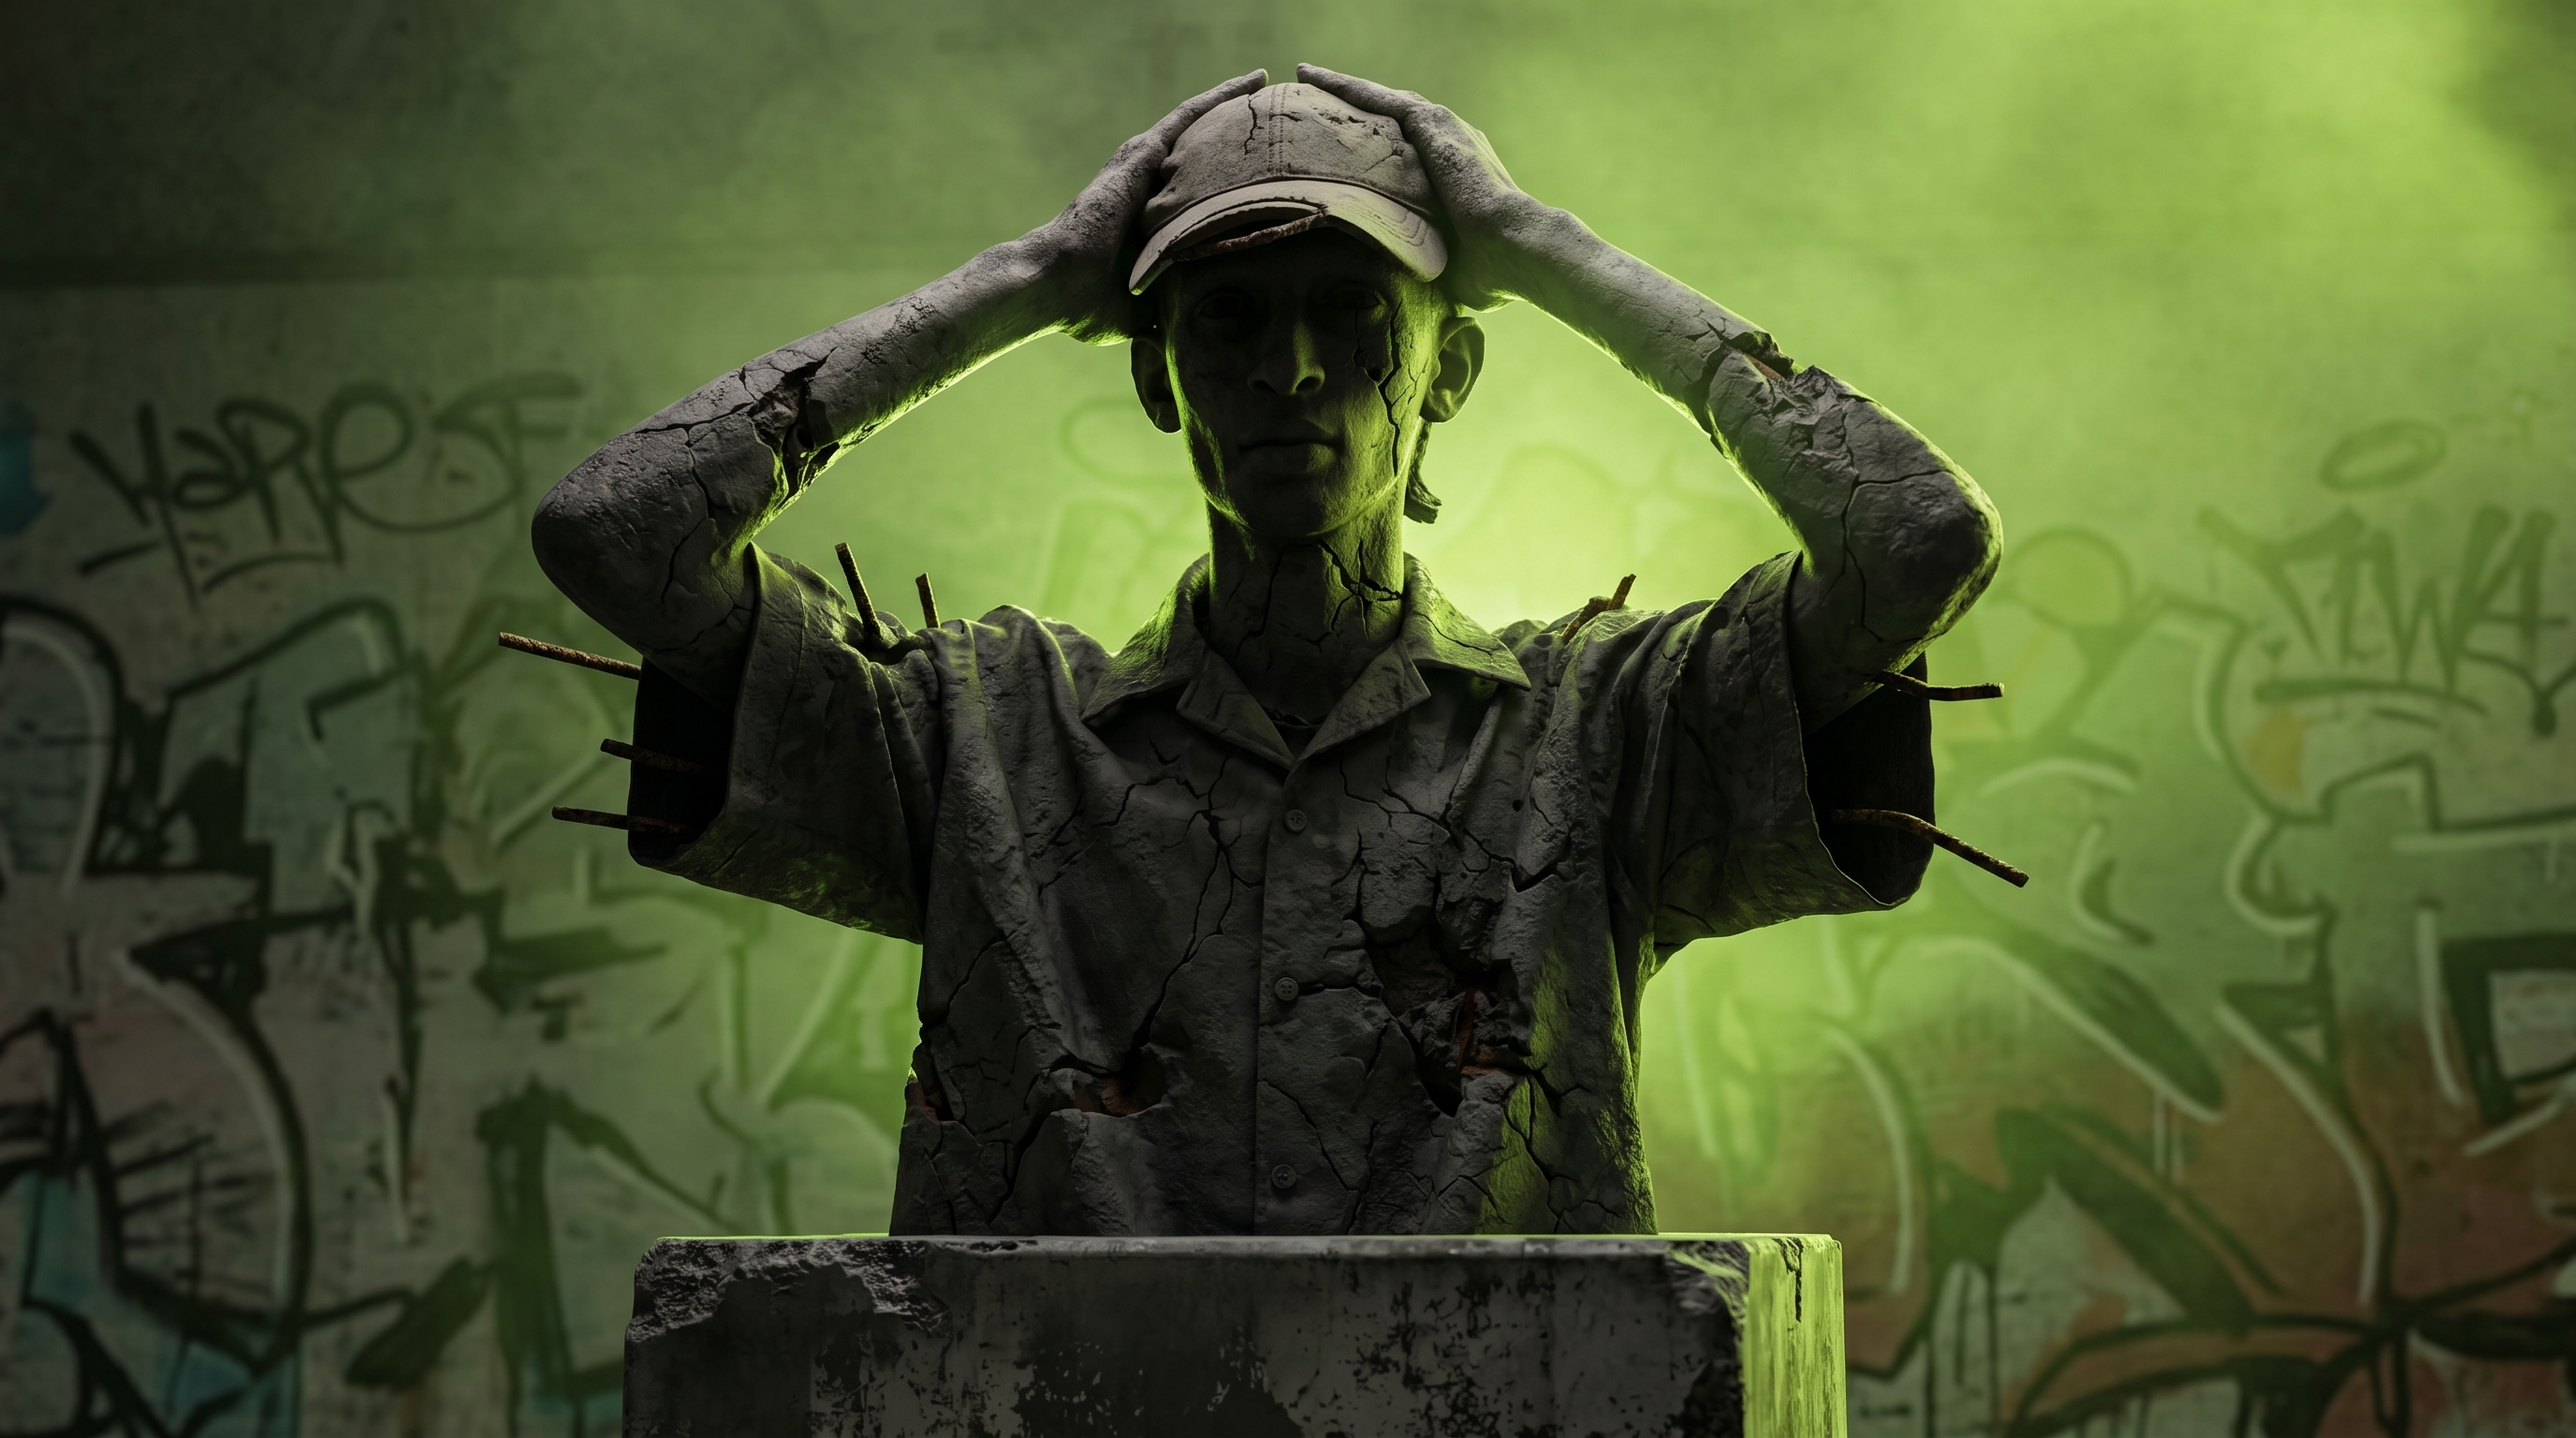
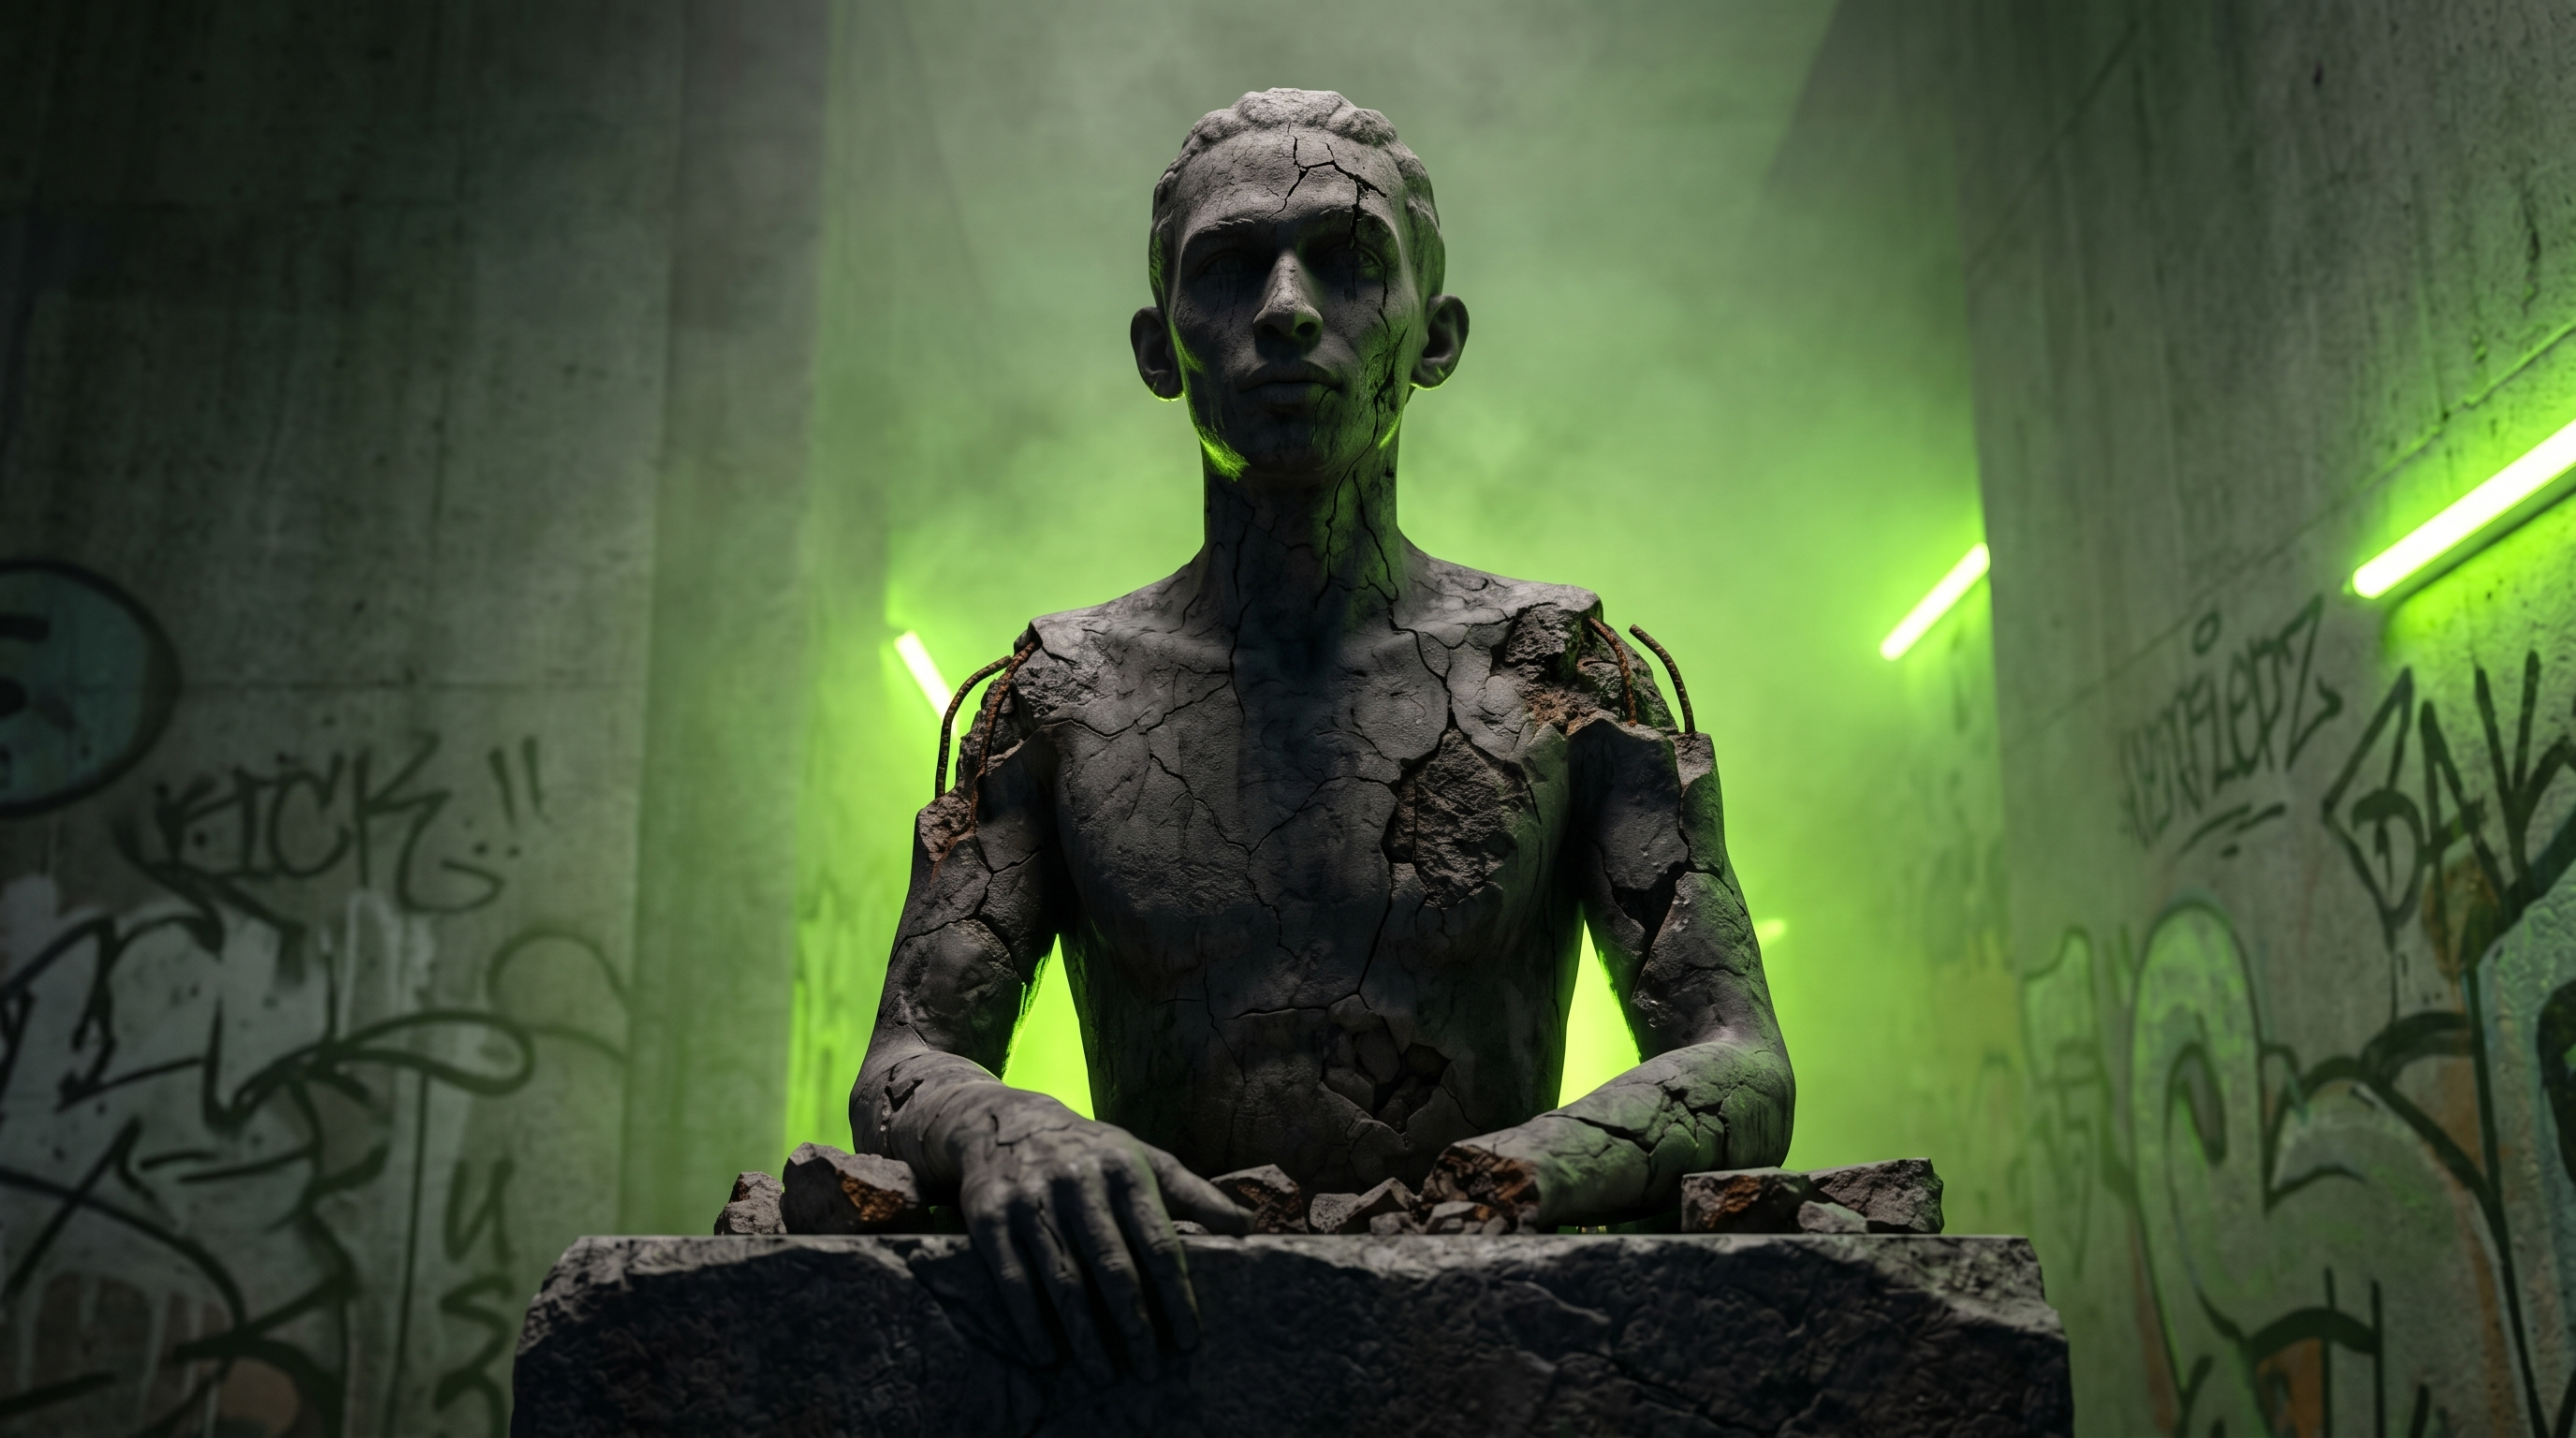
feat: display rapper photos in Standings

diff --git a/src/app/components/StageDisplay.tsx b/src/app/components/StageDisplay.tsx
@@ -7,6 +7,20 @@ import { motion, AnimatePresence } from 'motion/react';
 import type { ConnectionStatus, SyncDiagnostics } from '../hooks/useSupabaseSync';
 import { GeneralVisuals, RoundIntros, FinalistsVisuals } from './VisualModes';
 
+const photos = import.meta.glob('../../styles/photos/*.{jpeg,JPEG,jpg,png}', { query: '?url', import: 'default', eager: true }) as Record<string, string>;
+
+const getRapperImage = (name: string) => {
+  const normalizedName = name.toLowerCase().replace(/[^a-z0-9]/g, '');
+  const customMap: Record<string, string> = {
+    'therealdopie': 'therealdopie',
+    'dezelelgenral': 'dezel',
+    'hazemhany': 'hazem',
+  };
+  const searchKey = customMap[normalizedName] || normalizedName;
+  const match = Object.keys(photos).find(path => path.toLowerCase().includes(searchKey));
+  return match ? photos[match] : null;
+};
+
 interface StageDisplayProps {
   rappers: Rapper[];
   teams: Team[];
@@ -167,7 +181,7 @@ export default function StageDisplay({
   ].includes(broadcastState.mode);
 
   return (
-    <div className="min-h-screen bg-background text-foreground p-6 md:p-8 relative overflow-hidden" style={{ fontFamily: 'Anton, sans-serif' }}>
+    <div className="bg-background text-foreground p-6 md:p-8 relative overflow-hidden mx-auto" style={{ width: '768px', height: '1536px', fontFamily: 'Anton, sans-serif' }}>
       {/* Animated background */}
       <StageBackground showEqualizer={!isGeneralVisual} />
 
@@ -216,7 +230,7 @@ export default function StageDisplay({
       )}
 
       {/* Content layer */}
-      <div className="relative flex flex-col min-h-screen w-full justify-center" style={{ zIndex: 2 }}>
+      <div className="relative flex flex-col h-full w-full justify-center" style={{ zIndex: 2 }}>
         <AnimatePresence mode="wait">
           {isSpecialVisualMode ? (
             <motion.div key={broadcastState.mode} className="w-full h-full flex flex-col items-center justify-center">
@@ -436,6 +450,17 @@ export default function StageDisplay({
                       >
                         {index + 1}
                       </motion.div>
+                      {getRapperImage(result.rapper.name) && (
+                        <motion.img 
+                          src={getRapperImage(result.rapper.name)!} 
+                          alt={result.rapper.name}
+                          className="w-16 h-16 md:w-20 md:h-20 object-cover rounded-full border-2"
+                          style={{ borderColor: index === 0 ? 'var(--primary)' : 'var(--border-muted)' }}
+                          initial={{ scale: 0, opacity: 0 }}
+                          animate={{ scale: 1, opacity: 1 }}
+                          transition={{ delay: index * 0.15 + 0.3, duration: 0.4 }}
+                        />
+                      )}
                       <div>
                         <div className="text-3xl mb-2">{result.rapper.name}</div>
                         <div className="text-sm text-muted-foreground tracking-wide">

diff --git a/src/app/components/StageBackground.tsx b/src/app/components/StageBackground.tsx
@@ -11,8 +11,13 @@ export default function StageBackground({ showEqualizer = true }: { showEqualize
     if (!ctx) return;
 
     const resizeCanvas = () => {
-      canvas.width = window.innerWidth;
-      canvas.height = window.innerHeight;
+      if (canvas.parentElement) {
+        canvas.width = canvas.parentElement.clientWidth;
+        canvas.height = canvas.parentElement.clientHeight;
+      } else {
+        canvas.width = window.innerWidth;
+        canvas.height = window.innerHeight;
+      }
     };
     resizeCanvas();
     window.addEventListener('resize', resizeCanvas);
@@ -78,13 +83,13 @@ export default function StageBackground({ showEqualizer = true }: { showEqualize
       {/* Canvas for particles */}
       <canvas
         ref={canvasRef}
-        className="fixed top-0 left-0 w-full h-full pointer-events-none"
+        className="absolute top-0 left-0 w-full h-full pointer-events-none"
         style={{ zIndex: 1 }}
       />
 
       {/* Pulsing radial glow */}
       <div
-        className="fixed top-1/2 left-1/2 -translate-x-1/2 -translate-y-1/2 w-[600px] h-[600px] rounded-full pointer-events-none"
+        className="absolute top-1/2 left-1/2 -translate-x-1/2 -translate-y-1/2 w-[600px] h-[600px] rounded-full pointer-events-none"
         style={{
           background: 'radial-gradient(circle, rgba(146, 208, 32, 0.15) 0%, transparent 70%)',
           animation: 'pulse-beat 0.8s ease-in-out infinite',
@@ -94,7 +99,7 @@ export default function StageBackground({ showEqualizer = true }: { showEqualize
 
       {/* Audio equalizer bars */}
       {showEqualizer && (
-        <div className="fixed bottom-0 left-0 right-0 flex items-end justify-center gap-1 px-4 pb-4 pointer-events-none" style={{ zIndex: 1, height: '120px' }}>
+        <div className="absolute bottom-0 left-0 right-0 flex items-end justify-center gap-1 px-4 pb-4 pointer-events-none" style={{ zIndex: 1, height: '120px' }}>
           {[...Array(40)].map((_, i) => (
             <div
               key={i}